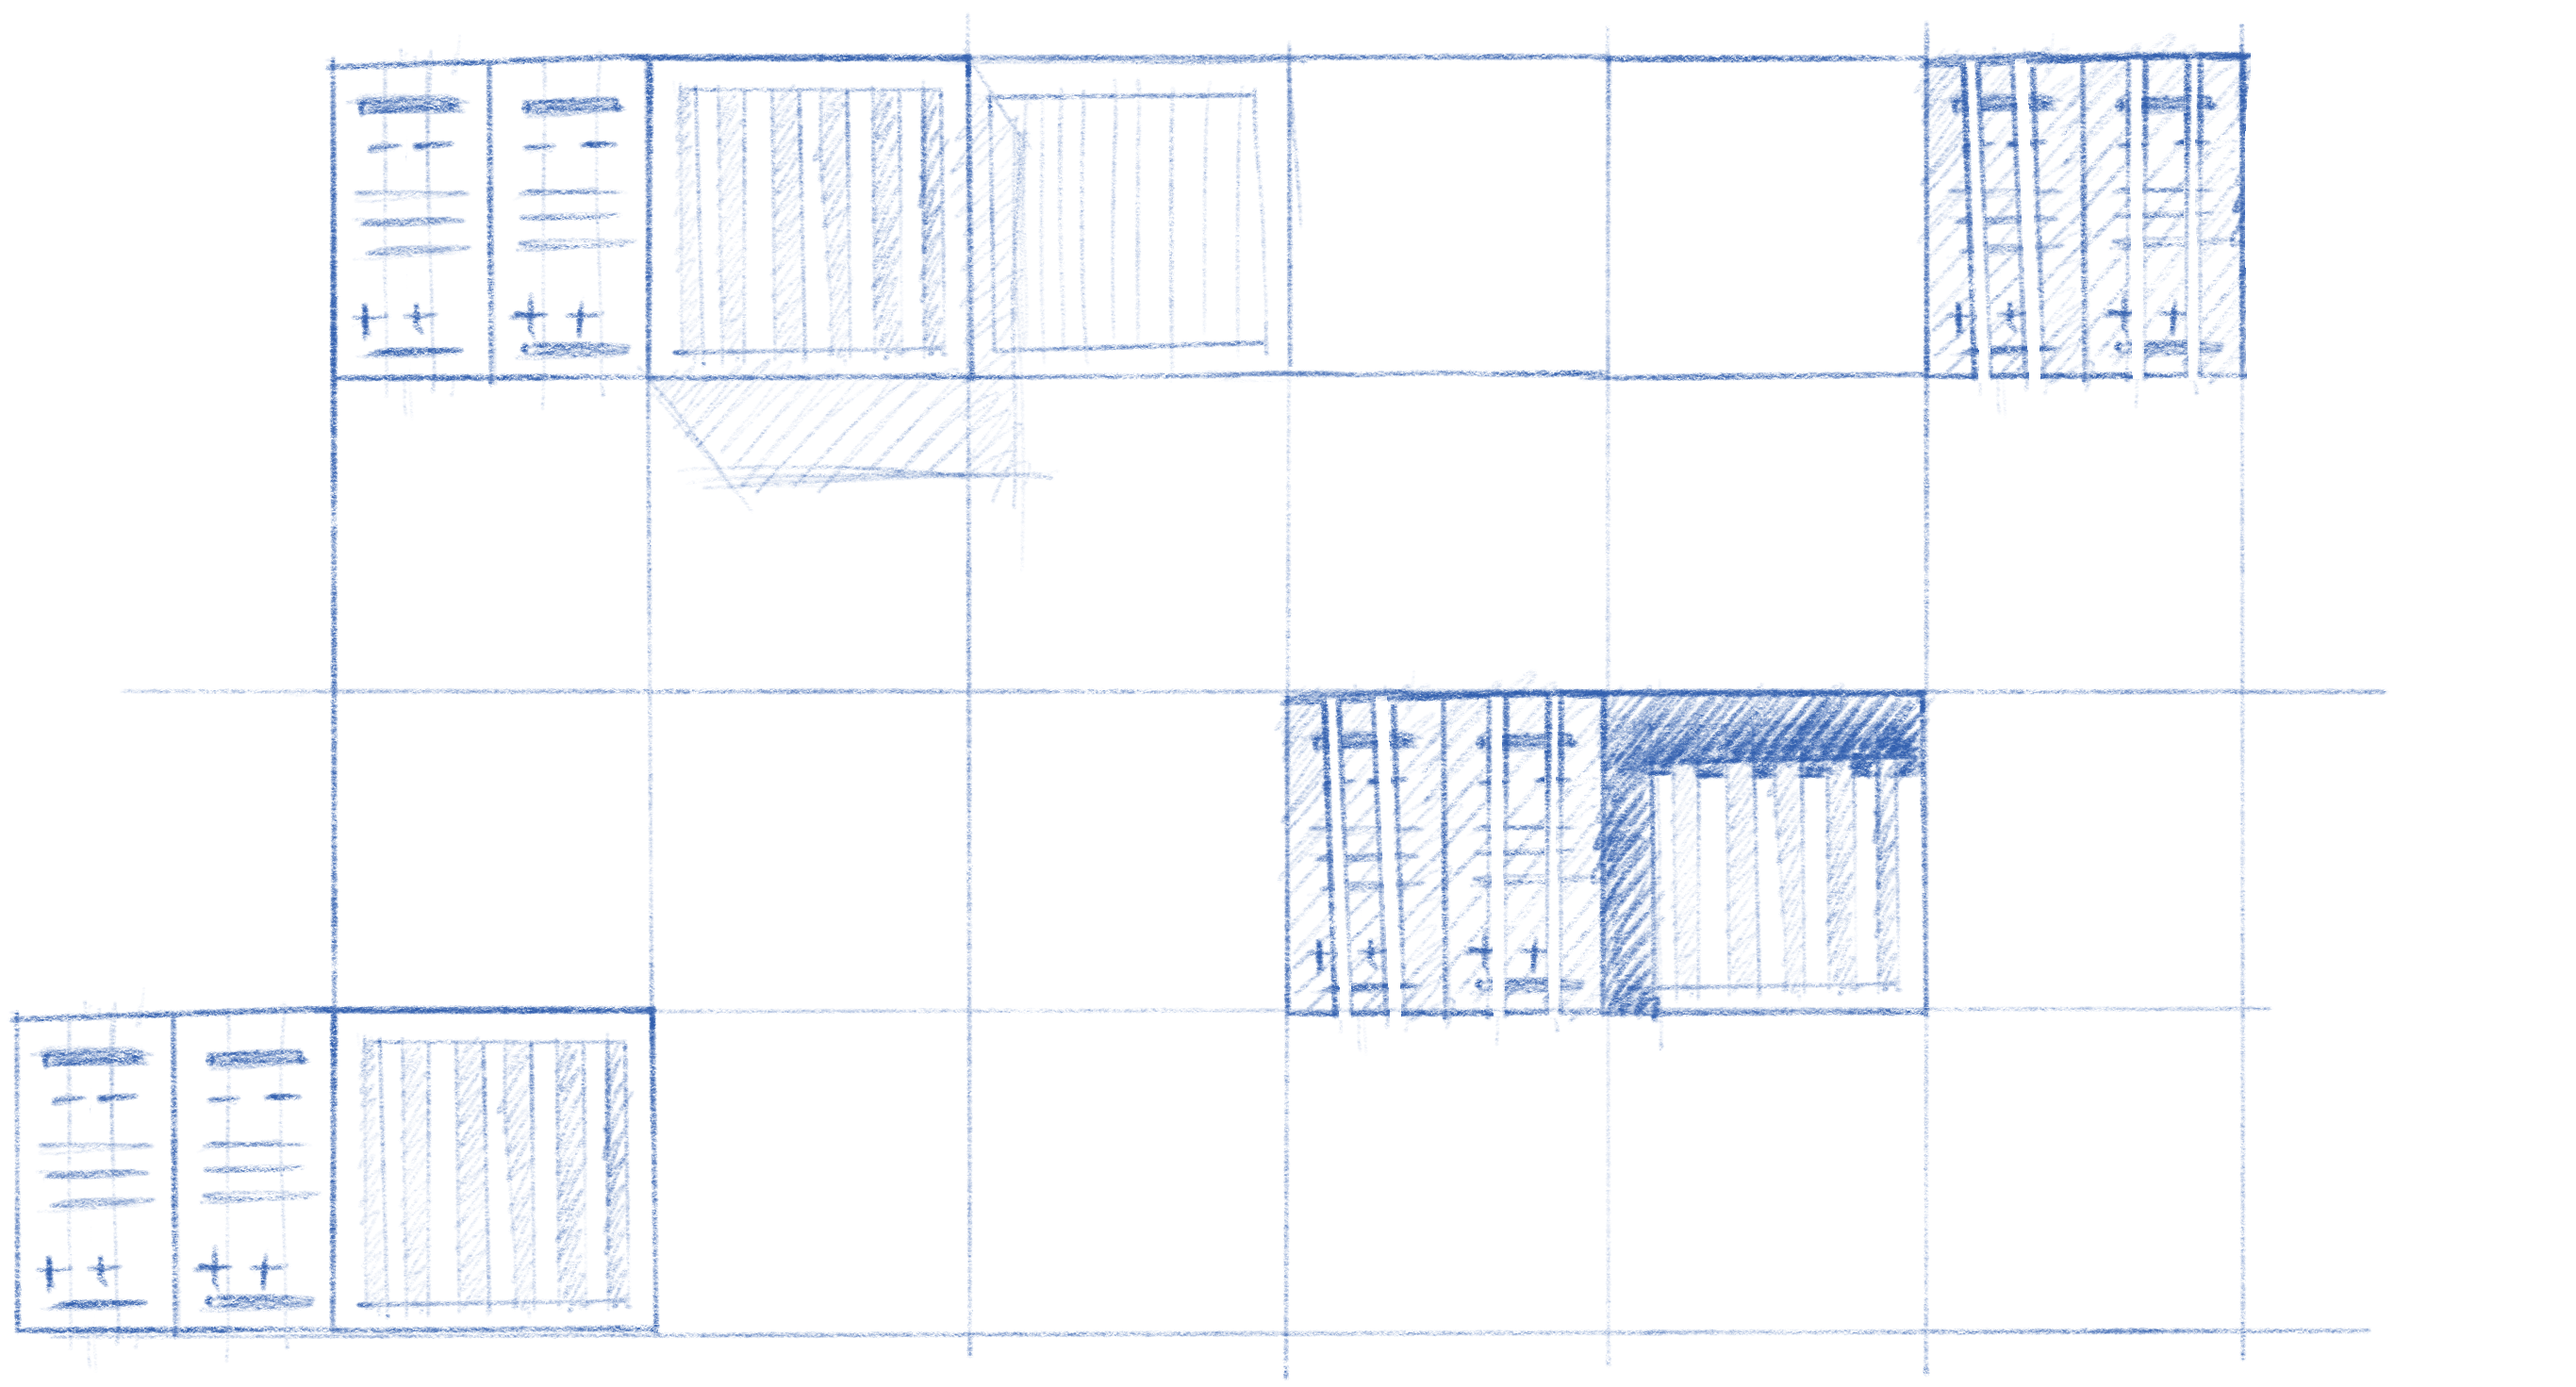
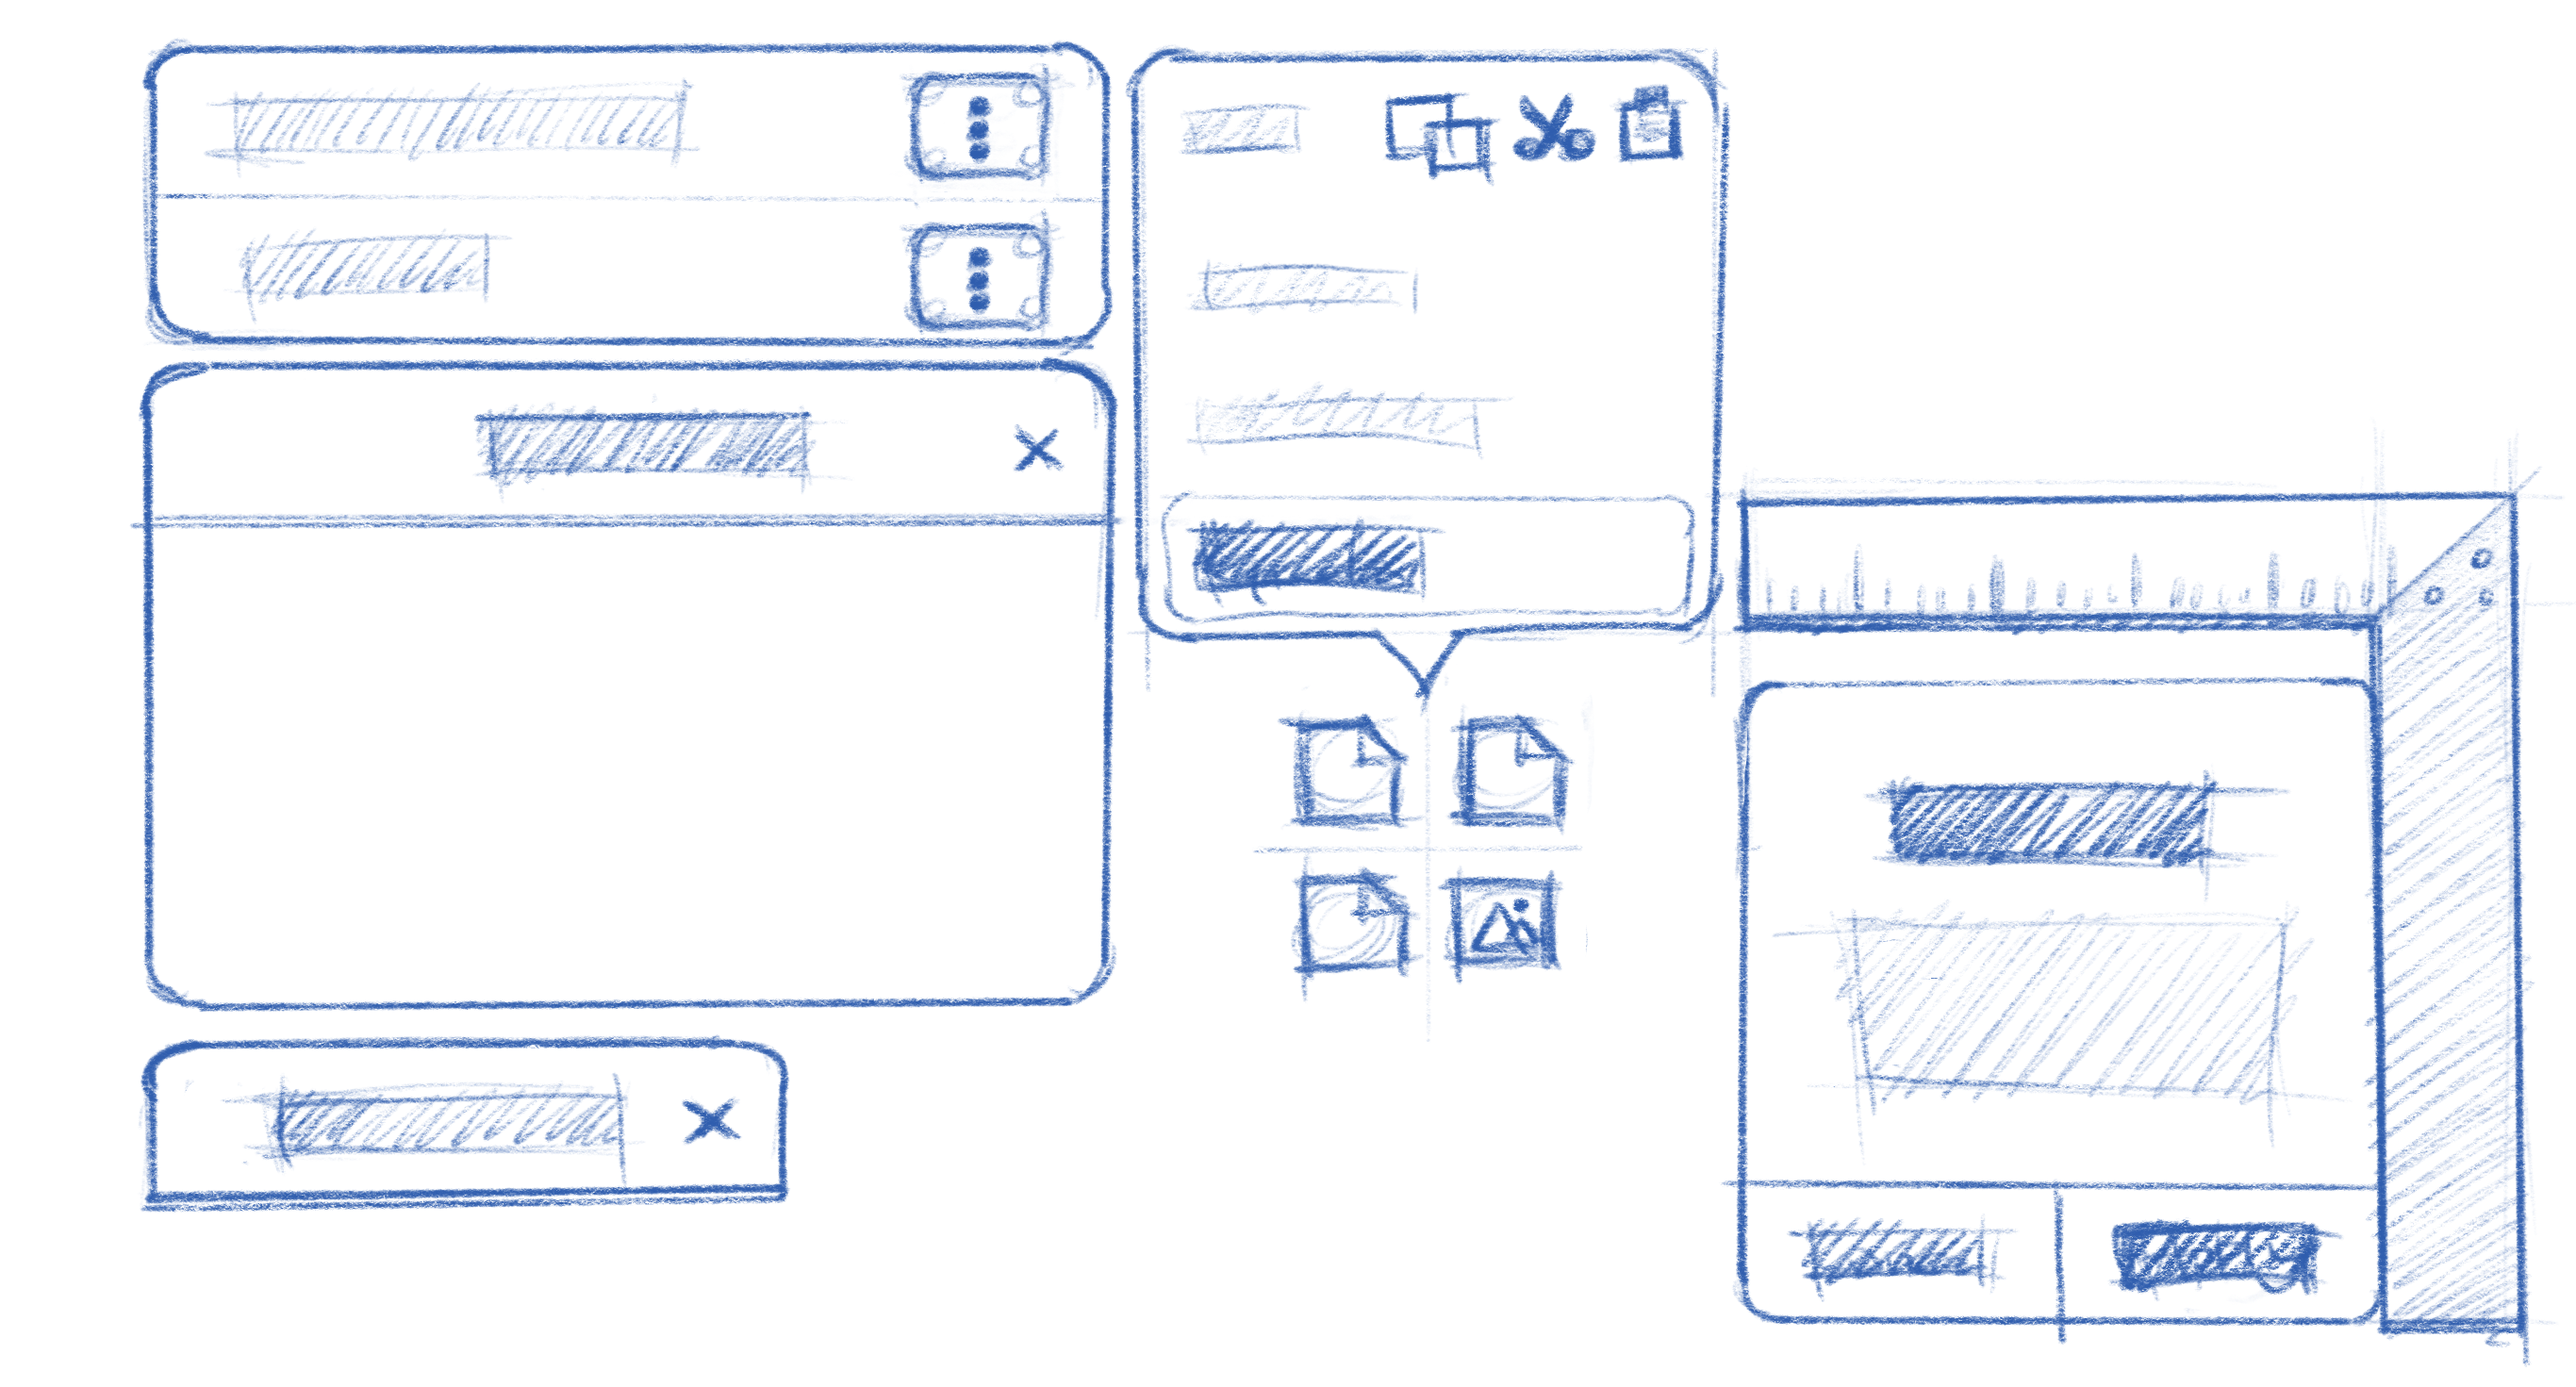
more placeholder illustration

diff --git a/source/nav.rst b/source/nav.rst
@@ -1,3 +1,5 @@
+.. image:: img/placeholder-navigation.png
+
 Navigation
 ==========
 

diff --git a/source/controls.rst b/source/controls.rst
@@ -1,3 +1,5 @@
+.. image:: img/placeholder-controls.png
+
 Controls
 ========
 

diff --git a/source/feedback.rst b/source/feedback.rst
@@ -1,3 +1,5 @@
+.. image:: img/placeholder-feedback.png
+
 Feedback
 ========
 
